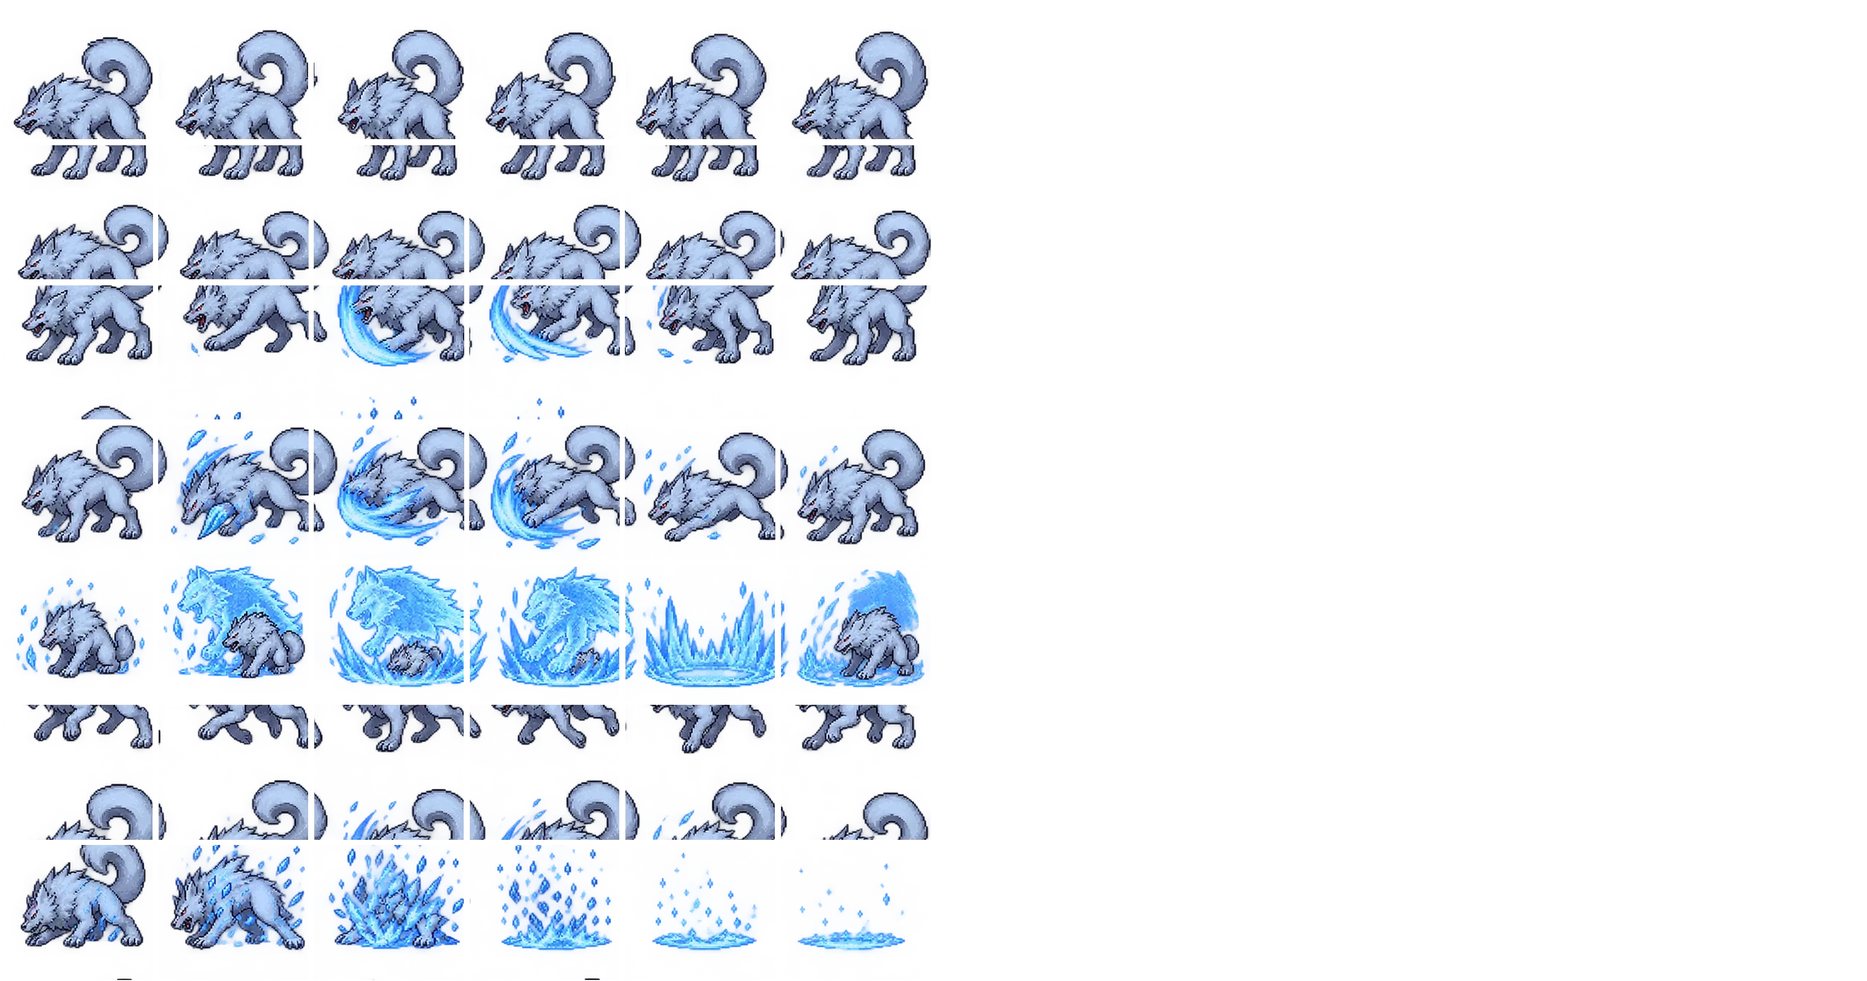
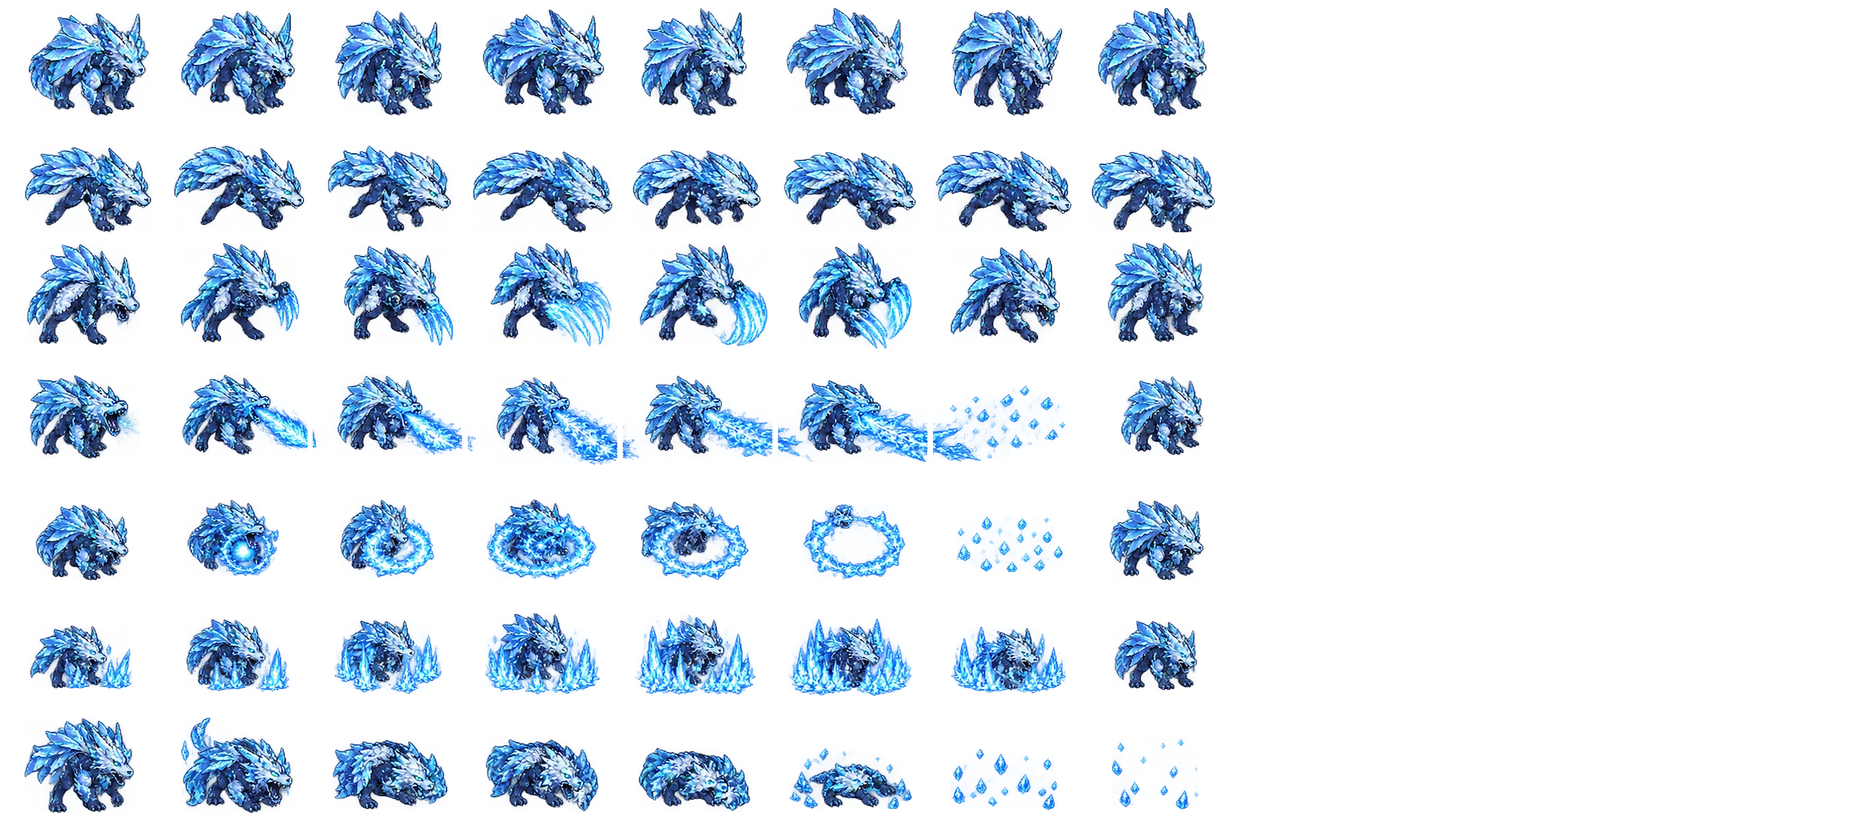
vc142 — 보스 디자인 전면 교체: 유저 제공 아틀라스 5종(12FPS · idle/run/attack/died/스킬3 7행 구조) 적용 — ①심연의 수호자=요툰헤임 수정골렘(304x269·8fr×7행) ②심연의 군주=헬 고해상(303x248·8fr) ③스콜&하티=쌍랑 교체(얼음 늑대+화염 늑대 4fr×7행 — 명칭 '교만의 쌍랑' 복원+대사 수정) ④펜리르=니플헤임 얼음수(303x227·8fr) ⑤요르문간드=잎날개 녹룡 신규 아틀라스(304x201·6행 sp3없음·거터검출 슬라이스) — 게임 12열 그리드+행순서 리맵(die→

diff --git a/src/game/textures.ts b/src/game/textures.ts
@@ -242,29 +242,31 @@ export function buildAllAnims(scene: Phaser.Scene) {
  *  · 프레임은 슬라이서 실측 크기(시트별 상이) — BOSS_ATLAS의 fw/fh와 정확히 일치해야 한다
  *  · 프로그램 키는 기존과 동일(tex-idle·tex-walk·…) — Boss.ts 로직 무수정 호환 */
 export const BOSS_ATLAS: Record<string, { key: string; file: string; fw: number; fh: number }> = {
-  boss:        { key: "atl_boss",        file: "atl_boss.webp",        fw: 268, fh: 234 }, // 심연의 수호자 — 스바르트 흑마수 (v1.4.32 LANCZOS 개선)
+  boss:        { key: "atl_boss",        file: "atl_boss.webp",        fw: 304, fh: 269 }, // 심연의 수호자 — 요툰헤임 수정골렘 (vc142 유저 아틀라스)
   boss2:       { key: "atl_boss2",       file: "atl_boss2.webp",       fw: 330, fh: 212 }, // 눈보라의 거수·파수꾼 — 미드가르드 해적선 (v1.4.32 유령선 고해상)
-  boss3:       { key: "atl_boss3",       file: "atl_boss3.webp",       fw: 286, fh: 234 }, // 심연의 군주 — 헬 악마 (v1.4.32 LANCZOS 개선)
+  boss3:       { key: "atl_boss3",       file: "atl_boss3.webp",       fw: 303, fh: 248 }, // 심연의 군주 — 헬 (vc142 유저 아틀라스 고해상)
   boss_nidhog: { key: "atl_boss_nidhog", file: "atl_boss_nidhog.webp", fw: 226, fh: 232 }, // 니드호그 — 알프헤임 수목룡 (v1.4.32 고해상 11프레임)
   boss_surt:   { key: "atl_boss_surt",   file: "atl_boss_surt.webp",   fw: 330, fh: 224 }, // 수르트 — 무스펠 용암골렘 (v1.4.32 고해상)
-  boss_fenrir: { key: "atl_boss_fenrir", file: "atl_boss_fenrir.webp", fw: 304, fh: 274 }, // 펜리르 — 설원 백량 (v1.4.32 고해상)
-  boss_skoll:  { key: "atl_boss_skoll",  file: "atl_boss_skoll.webp",  fw: 274, fh: 234 }, // 스콜 — 얼음 봉황 (v1.4.32 LANCZOS 개선)
+  boss_fenrir: { key: "atl_boss_fenrir", file: "atl_boss_fenrir.webp", fw: 303, fh: 227 }, // 펜리르 — 니플헤임 얼음수 (vc142 유저 아틀라스)
+  boss_skoll:  { key: "atl_boss_skoll",  file: "atl_boss_skoll.webp",  fw: 303, fh: 257 }, // 스콜 — 얼음 늑대 (vc142 유저 아틀라스 4프레임×7행)
   boss_nagr:   { key: "atl_boss_nagr",   file: "atl_boss_nagr.webp",   fw: 286, fh: 240 }, // 발할라 천사기사 (재림 15) (v1.4.32 LANCZOS 개선)
-  boss_hati:   { key: "atl_boss_hati",   file: "atl_boss_hati.webp",   fw: 280, fh: 258 }, // 하티 — 스콜 트윈(화염) (v1.4.32 LANCZOS 개선)
+  boss_hati:   { key: "atl_boss_hati",   file: "atl_boss_hati.webp",   fw: 304, fh: 257 }, // 하티 — 화염 늑대 (vc142 유저 아틀라스 4프레임×7행)
+  boss_jorm:   { key: "atl_boss_jorm",   file: "atl_boss_jorm.webp",   fw: 304, fh: 201 }, // 요르문간드 — 잎날개 녹룡 (vc142 유저 아틀라스 신설 6행)
 };
 
 /** 아틀라스 행별 유효 프레임 수 (슬라이서 실측 — 뒤쪽 빈 프레임 트리밍).
  *  6행 시트는 sp3가 없다 (Boss.animFor의 beamTele → setBossAnim 폴백으로 idle 동작). */
 export const BOSS_ATLAS_ROWS: Record<string, number[]> = {
-  boss:        [11, 11, 11, 11, 11, 11],           // idle walk atk sp1 sp2 die
+  boss:        [8, 8, 8, 8, 8, 8, 8],              // vc142 수정골렘 8프레임×7행
   boss2:       [6, 6, 6, 6, 6, 6, 6],              // idle walk atk sp1 sp2 sp3 die (v1.4.32 고해상 유령선)
-  boss3:       [11, 11, 11, 11, 11, 11],
+  boss3:       [8, 8, 8, 8, 8, 8, 8],              // vc142 헬 8프레임×7행
   boss_nidhog: [11, 11, 11, 11, 11, 11, 11],       // (v1.4.32 고해상 — 7행 유지)
   boss_surt:   [6, 6, 6, 6, 6, 6, 6],              // (v1.4.32 고해상)
-  boss_fenrir: [6, 6, 6, 6, 6, 6, 6],              // (v1.4.32 고해상)
-  boss_hati:   [11, 11, 11, 11, 11, 11, 11],
-  boss_skoll:  [11, 11, 11, 11, 11, 11, 11],
+  boss_fenrir: [8, 8, 8, 8, 8, 8, 8],              // vc142 얼음수 8프레임×7행
+  boss_hati:   [4, 4, 4, 4, 4, 4, 4],              // vc142 화염늑대 4프레임×7행
+  boss_skoll:  [4, 4, 4, 4, 4, 4, 4],              // vc142 얼음늑대 4프레임×7행
   boss_nagr:   [10, 10, 11, 10, 11, 11],
+  boss_jorm:   [3, 6, 6, 6, 6, 6],                 // vc142 녹룡 6행 (sp3 없음 — die 폴백 idle)
 };
 
 /** 보스 초기 텍스처/프레임 — 아틀라스 보스는 시트 frame 0, 구형은 개별 idle0 이미지 */

diff --git a/public/apk-guide.html b/public/apk-guide.html
@@ -47,7 +47,7 @@
 <body>
 <div class="card">
   <h1>SERTZ v1.0.5-beta APK 다운로드 안내</h1>
-  <div class="sub">versionCode 141 · 기존 세이브 그대로 유지 · 덮어설치 가능 · 결제·광고 실연동</div>
+  <div class="sub">versionCode 142 · 기존 세이브 그대로 유지 · 덮어설치 가능 · 결제·광고 실연동</div>
 
   <div class="web-close">
     🌐 <b>웹에서도 플레이 가능</b> — PC·휴대폰 브라우저에서 <code>sertz.vercel.app</code> 접속 시 별도 설치 없이 바로 플레이됩니다 (구글 로그인·멀티플레이 지원).<br>
@@ -55,9 +55,10 @@
   </div>
 
   <div class="notice">
-<b>이번 버전(v1.0.5-beta · vc141) — "원격 스킬 실제 연출 재생"</b><br>
-✨ 상대 화면에도 내 스킬이 진짜처럼 — 기존엔 내가 쓴 스킬이 상대에게 클래스색 링+화살 몇 발로 퉁쳐졌다면, 이제 회전베기·부채꼴 화살·매직 볼트·돌진 궤적·저격선·낙뢰·토네이도·5차 궁극기까지 전 직업 48종 실제 연출로 재생<br>
-🛡 보스 화질 유지 — 장기 플레이 중 텍스처 자동 수복 시에도 보스 LINEAR 필터가 유지되어 화질이 다시 뭉개지지 않음<br>
+<b>이번 버전(v1.0.5-beta · vc142) — "보스 디자인 전면 교체"</b><br>
+🐉 유저 제공 아틀라스 5종으로 보스 6종 디자인 교체 — 심연의 수호자=요툰헤임 수정골렘 · 심연의 군주=헬 고해상판 · 스콜&하티=쌍랑(얼음 늑대+화염 늑대) · 펜리르=니플헤임 얼음수 · 요르문간드=잎날개 녹룡(신규 아틀라스)<br>
+🎞 12FPS 풀애니 + 전용 초상화 6종 재생성 — idle/이동/공격/사망/스킬 3종 전 행 신규 연출<br>
+✨ (vc141) 상대 화면에도 내 스킬 실제 연출 재생 · 보스 LINEAR 필터 유지<br>
 <b>이전 버전(vc140) — "멀티 서로 안보임 + 보스 화질 2차 복구"</b><br>👥 폴백 브로커(이클립스) 사망 → HiveMQ 교체 + 브로커 자동 순환 (교실 모드 동일 적용) · 보스 9종 LINEAR 필터 · 원격 스킬 좌표 폴백<br><b>이전 버전(vc139·138) — "보스 화질 전면 복구"</b><br>
 ☁ 세이브 복원 수정 — 멀티캐릭터 도입 이후 "세이브 복원" 버튼이 실제로 반영되지 않던 근본 버그 수정 (같은 이름 캐릭터 교체 · 새 기기면 새 캐릭터로 등록)<br>
 🔑 구글 로그인 수정 — 서버가 구글 인증서를 조회하지 못해 웹 구글 로그인이 실패하던 문제 수정 (인증서 조회 경로 정정 + 예비 조회 경로 이중화)<br>
@@ -160,7 +161,7 @@
 
   <div class="step">
     <h2><span class="badge">방법 1 (권장)</span>GitHub 릴리스 — 즉시 다운로드</h2>
-    <a href="https://github.com/apple01234/CERTZ/releases/download/v1.0.5-beta/SERTZ-vc141.apk"
+    <a href="https://github.com/apple01234/CERTZ/releases/download/v1.0.5-beta/SERTZ-vc142.apk"
        style="display:block; text-align:center; margin:10px 0; padding:14px; border-radius:12px; background:linear-gradient(180deg,#facc15,#d97706); color:#1e293b; font-weight:900; font-size:16px; text-decoration:none; box-shadow:0 6px 20px rgba(0,0,0,.4);">
       ⬇ SERTZ v1.0.5-beta APK 바로 다운로드 (~145MB · 즉시 시작)
     </a>
@@ -174,7 +175,7 @@
   <div class="step">
     <h2><span class="badge" style="background:#475569">방법 2</span>릴리스 페이지에서 직접</h2>
     <ul>
-      <li><a href="https://github.com/apple01234/CERTZ/releases/tag/v1.0.5-beta" style="color:#7dc4ff"><code>SERTZ v1.0.5-beta 릴리스 페이지</code></a>에서 <code>SERTZ-vc141.apk</code>를 눌러 다운로드</li>
+      <li><a href="https://github.com/apple01234/CERTZ/releases/tag/v1.0.5-beta" style="color:#7dc4ff"><code>SERTZ v1.0.5-beta 릴리스 페이지</code></a>에서 <code>SERTZ-vc142.apk</code>를 눌러 다운로드</li>
       <li>구버전(v1.0.4-beta 등)도 같은 릴리스 목록에서 내려받을 수 있습니다</li>
     </ul>
   </div>

diff --git a/server.js b/server.js
@@ -34,7 +34,7 @@ app.prepare().then(() => {
   /* vc138 — GitHub API 자산 DELETE 일시 장애로 동일 이름 교체가 막힌 기간의 안전 경로:
    *  vc138 자산을 별도 이름으로 업로드하고 이쪽을 가리킴. 루프가 동일 이름 교체에 성공하면
    *  양쪽 URL 모두 vc138이 됨 (서버 307 리다이렉트이므로 클라 영향 없음). */
-  "https://github.com/apple01234/CERTZ/releases/download/v1.0.5-beta/SERTZ-vc141.apk";
+  "https://github.com/apple01234/CERTZ/releases/download/v1.0.5-beta/SERTZ-vc142.apk";
   const { createReadStream, statSync } = require("node:fs");
   const path = require("node:path");
   const DOWNLOAD_FILES = {
@@ -68,9 +68,9 @@ app.prepare().then(() => {
    *  구버전 APK 사용자에게 증상 수정(화살 방향 등)이 담긴 재설치를 안내한다.
    *  유저가 구버전을 계속 쓰면 최신 수정을 못 받아 같은 증상이 재보고되는 문제를 원천 차단. */
   const LATEST_VERSION = "1.0.5-beta";
-  const LATEST_CODE = 141;
+  const LATEST_CODE = 142;
   const VERSION_NOTE =
-  "v1.0.5-beta (vc141) — 원격 스킬 실제 연출 재생: 상대가 보는 내 스킬이 범용 링이 아니라 클래스별 실제 스킬 이펙트(회전베기·부채꼴 화살·볼트·돌진 궤적·저격선·낙뢰·토네이도·궁극기 등 48종 전원)로 재생 + 보스 아틀라스 수복 시 LINEAR 필터 유지(화질 재저하 방지)";
+  "v1.0.5-beta (vc142) — 보스 디자인 전면 교체: 유저 제공 아틀라스 5종 적용 — 심연의 수호자=요툰헤임 수정골렘·심연의 군주=헬 고해상·스콜&하티=쌍랑(얼음+화염 늑대)·펜리르=니플헤임 얼음수·요르문간드=잎날개 녹룡(신규 아틀라스) — 12FPS 풀애니+초상화 6종 재생성";
   if (url === "/api/version") {
     res.writeHead(200, { "Content-Type": "application/json; charset=utf-8", "Cache-Control": "no-store" });
     res.end(JSON.stringify({

diff --git a/src/game/stages.ts b/src/game/stages.ts
@@ -481,13 +481,13 @@ export const BOSS_DEFS: Record<BossKey, BossDef> = {
     },
   },
   skoll: {
-    key: "skoll", name: "교만의 얼음 봉황 스콜&하티", /* v5.0 보스 리메이크 — 설계도 7/9 니플헤임 얼음 봉황 반영(구: 쌍랑) */
+    key: "skoll", name: "교만의 쌍랑 스콜&하티", /* vc142 보스 디자인 교체 — 유저 제공 쌍랑 아틀라스(얼음 늑대 스콜+화염 늑대 하티) 반영 (구 표기: 교만의 얼음 봉황) */
     hp: 8600, atk: 39, speed: 100, exp: 720, gold: 420,
     tex: "boss_skoll", orbTint: 0xffd97a, introDialogue: "bossIntroSkoll",
     /* v1.4.12 (#20 보스 정체성) — 시그니처 blink · 성향 0.9 */
     sig: "blink",
     aggr: 0.9,
-    /* 태양을 쫓던 쌍두 봉황 — 3연속 교차 돌진(최종 페이즈 3회) + 스윕 빔 */
+    /* 태양과 달을 쫓던 쌍랑 — 3연속 교차 돌진(최종 페이즈 3회) + 스윕 빔 */
     chargeChain: 2,
     patterns: {
       p1: ["volley", "charge", "slam"],

diff --git a/src/app/api/version/route.ts b/src/app/api/version/route.ts
@@ -14,7 +14,7 @@ const VERSION_NOTE =
   "v1.0.5-beta (vc141) — 원격 스킬 실제 연출 재생: 상대가 보는 내 스킬이 범용 링이 아니라 클래스별 실제 스킬 이펙트(회전베기·부채꼴 화살·볼트·돌진 궤적·저격선·낙뢰·토네이도·궁극기 등 48종 전원)로 재생 + 보스 아틀라스 수복 시 LINEAR 필터 유지(화질 재저하 방지)";
 const APK_MIRROR =
   /* vc138 — API DELETE 장애 기간 안전 경로 (server.js 주석 참조) */
-  "https://github.com/apple01234/CERTZ/releases/download/v1.0.5-beta/SERTZ-vc141.apk";
+  "https://github.com/apple01234/CERTZ/releases/download/v1.0.5-beta/SERTZ-vc142.apk";
 
 export async function GET() {
   return NextResponse.json({

diff --git a/src/game/entities/Boss.ts b/src/game/entities/Boss.ts
@@ -132,7 +132,7 @@ export class Boss extends Phaser.Physics.Arcade.Sprite {
     this.play(`${def.tex}-idle`);
 
     /* v1.0.12 — 하티 스폰: 스콜 옆에 나란히 달린다.
-     *  v1.4.31 (#4) — 아틀라스 시대: 본체=얼음 봉황(스콜), 트윈=화염 늑대(하티 전용 아트·무틴트).
+     *  vc142 — 아틀라스 시대: 본체=얼음 늑대(스콜), 트윈=화염 늑대(하티 전용 아트·무틴트).
      *  구형 아트는 기존대로 동일 텍스처+은빛 틴트. 히트박스/판정은 보스 본체 그대로(밸런스 불변). */
     if (def.key === "skoll") {
       if (BOSS_ATLAS[def.tex]) {

diff --git a/next.config.ts b/next.config.ts
@@ -58,7 +58,7 @@ const nextConfig: NextConfig = isStaticExport
          *  리다이렉트되던 잠복 버그 수정 (server.js 정규식은 beta 미포함이라 이쪽이 개입).
          *  APK_MIRROR(server.js·route.ts)와 수동 싱크 유지. */
         const APK_DL =
-          "https://github.com/apple01234/CERTZ/releases/download/v1.0.5-beta/SERTZ-vc141.apk";
+          "https://github.com/apple01234/CERTZ/releases/download/v1.0.5-beta/SERTZ-vc142.apk";
         return [
           {
             /* v4.1.0 — 모든 버전의 /SERTZ-vX.apk 경로를 한 규칙으로 처리

diff --git a/src/game/data.ts b/src/game/data.ts
@@ -1796,10 +1796,10 @@ export const DIALOGUES: Record<string, DialogueDef> = {
     ],
   },
   bossIntroSkoll: {
-    speaker: "교만의 얼음 봉황 스콜&하티",
+    speaker: "교만의 쌍랑 스콜&하티",
     lines: [
       "얼어붙은 하늘 아래 — 해와 달도 궁어졌다!",
-      "얼음 날개로 하늘을 삼킨 우리에게 — 작은 인간 따위가 굴복하랴!",
+      "해와 달을 쫓아 하늘을 삼킨 우리에게 — 작은 인간 따위가 굴복하랴!",
       "교만은 꺾이지 않아. 부서져라!",
     ],
   },

diff --git a/scripts/vc142_boss_slicer.py b/scripts/vc142_boss_slicer.py
@@ -1,0 +1,179 @@
+#!/usr/bin/env python3
+# vc142 보스 디자인 교체 슬라이서 (최종)
+# 유저 아틀라스(12FPS · idle/run/attack/died/sp1/sp2/sp3) → 게임 아틀라스
+# (12열 고정 · idle/walk/atk/sp1/sp2/sp3/die) — 셀 기준 배치 + jorm 거터 검출
+from PIL import Image, ImageFilter
+import numpy as np
+import os, json
+
+UP = '/home/z/my-project/upload'
+ASSETS = '/home/z/my-project/public/assets'
+PREVIEW = '/home/z/my-project/scripts/atlas_preview'
+os.makedirs(PREVIEW, exist_ok=True)
+
+SHEETS = [
+    dict(src='요툰헤임.png',  tex='boss',        split=None, mirror_frames=False, rows=7, note='수정골렘→심연의 수호자'),
+    dict(src='헬.png',        tex='boss3',       split=None, mirror_frames=False, rows=7, note='헬→심연의 군주'),
+    dict(src='스콜&하티.png', tex='boss_skoll',  split='L',  mirror_frames=False, rows=7, note='얼음늑대→스콜'),
+    dict(src='스콜&하티.png', tex='boss_hati',   split='R',  mirror_frames=False, rows=7, note='화염늑대→하티'),
+    dict(src='file_00000000c8fc8206a70cd9c7ea2a8359.png', tex='boss_fenrir', split=None, mirror_frames=False, rows=7, note='니플헤임 얼음수→펜리르'),
+    dict(src='file_000000004a5482069531efe87ab73ca2.png', tex='boss_jorm',   split=None, mirror_frames=False, rows=6, gutter=True, note='녹룡→요르문간드(6행 — sp3 없음)'),
+]
+COLS = 8
+TARGET_W = 292
+PAD_X, PAD_Y = 6, 8
+MIN_PIX = 60
+
+def detect_row_bands(mask, exp):
+    proj = mask.sum(axis=1)
+    H = len(proj)
+    bands, s = [], None
+    for y in range(H):
+        if proj[y] > 6 and s is None: s = y
+        elif proj[y] <= 6 and s is not None:
+            if y - s >= 40: bands.append([s, y])
+            s = None
+    if s is not None and H - s >= 40: bands.append([s, H])
+    while len(bands) < exp:
+        heights = [b - a for a, b in bands]
+        idx = int(np.argmax(heights))
+        a, b = bands[idx]
+        if (b - a) < 150: break
+        seg = proj[a:b]
+        lo, hi = int((b - a) * 0.30), int((b - a) * 0.70)
+        inner = seg[lo:hi]
+        if len(inner) == 0: break
+        cut = a + lo + int(np.argmin(inner))
+        bands[idx] = [a, cut]
+        bands.insert(idx + 1, [cut, b])
+    return bands
+
+def trim_edge_slivers(sub):
+    h, w = sub.shape
+    for _ in range(6):
+        if w <= 24: break
+        if sub[:, :3].sum() < 12: sub = sub[:, 3:]
+        elif sub[:, -3:].sum() < 12: sub = sub[:, :-3]
+        else: break
+        w = sub.shape[1]
+    for _ in range(4):
+        if sub.shape[0] <= 24: break
+        if sub[:3, :].sum() < 12: sub = sub[3:, :]
+        else: break
+    return sub
+
+def process(cfg):
+    im = Image.open(os.path.join(UP, cfg['src'])).convert('RGBA')
+    W, H = im.size
+    mask = np.array(im.getchannel('A')) > 12
+    bands = detect_row_bands(mask, cfg['rows'])
+    nrows = len(bands)
+
+    if cfg['split'] == 'L':   x0, x1, ncol = 0, W // 2, COLS // 2
+    elif cfg['split'] == 'R': x0, x1, ncol = W // 2, W, COLS // 2
+    else:                     x0, x1, ncol = 0, W, COLS
+    cw = (x1 - x0) / ncol
+
+    rows_frames, row_cells = [], []
+    for (by0, by1) in bands:
+        frames, cells = [], []
+        if cfg.get('gutter'):
+            proj = mask[by0:by1].sum(axis=0)
+            segs, s = [], None
+            for x in range(x0, x1):
+                if proj[x] > 3 and s is None: s = x
+                elif proj[x] <= 3 and s is not None:
+                    if x - s > 30: segs.append((s, x))
+                    s = None
+            if s is not None and x1 - s > 30: segs.append((s, x1))
+            for (sx0, sx1) in segs:
+                sub = mask[by0:by1, sx0:sx1]
+                ys, xs = np.where(sub)
+                if len(xs) < MIN_PIX: continue
+                frames.append((sx0 + int(xs.min()), by0 + int(ys.min()),
+                               sx0 + int(xs.max()) + 1, by0 + int(ys.max()) + 1))
+                cells.append((sx0, sx1))
+        else:
+            for c in range(ncol):
+                cx0, cx1 = int(x0 + c * cw), int(x0 + (c + 1) * cw)
+                sub = mask[by0:by1, cx0:cx1]
+                ys, xs = np.where(sub)
+                if len(xs) < MIN_PIX:
+                    frames.append(None); cells.append(None)
+                    continue
+                frames.append((cx0 + int(xs.min()), by0 + int(ys.min()),
+                               cx0 + int(xs.max()) + 1, by0 + int(ys.max()) + 1))
+                cells.append((cx0, cx1))
+        rows_frames.append(frames); row_cells.append(cells)
+
+    max_content_w = 0
+    max_band_h = max(b - a for a, b in bands)
+    for frames in rows_frames:
+        for f in frames:
+            if f: max_content_w = max(max_content_w, f[2] - f[0])
+    scale = min(1.9, max(1.0, TARGET_W / max_content_w))
+    GW = int((cw if not cfg.get('gutter') else max_content_w) * scale) + PAD_X * 2
+    GH = int(max_band_h * scale) + PAD_Y * 2
+
+    atlas_order = [0, 1, 2, 4, 5, 6, 3] if nrows == 7 else [0, 1, 2, 4, 5, 3]
+    canvas_rows = max(atlas_order) + 1  # 빈행 → 팬텀 프레임 방지
+
+    canvas = Image.new('RGBA', (GW * 12, GH * canvas_rows), (0, 0, 0, 0))
+    counts = []
+    for arow, srow in enumerate(atlas_order):
+        frames, cells = rows_frames[srow], row_cells[srow]
+        by0, by1 = bands[srow]
+        n = 0
+        for i, f in enumerate(frames):
+            if not f or i >= 12: continue
+            fx0, fy0, fx1, fy1 = f
+            cx0, cx1 = cells[i]
+            sub = mask[fy0:fy1, fx0:fx1]
+            sub_t = trim_edge_slivers(sub)
+            dleft = int(np.where(sub_t.sum(axis=0) > 0)[0].min()) if sub_t.size else 0
+            ncrop = im.crop((fx0 + dleft, fy0, fx0 + dleft + sub_t.shape[1], fy0 + sub_t.shape[0]))
+            if cfg['mirror_frames']:
+                ncrop = ncrop.transpose(Image.FLIP_LEFT_RIGHT)
+            nw, nh = max(1, round(ncrop.width * scale)), max(1, round(ncrop.height * scale))
+            ncrop = ncrop.resize((nw, nh), Image.LANCZOS)
+            ncrop = ncrop.filter(ImageFilter.UnsharpMask(radius=1.2, percent=52, threshold=2))
+            fcx = fx0 + dleft + sub_t.shape[1] / 2
+            ccx = (cx0 + cx1) / 2
+            dx = round((fcx - ccx) * scale) * (-1 if cfg['mirror_frames'] else 1)
+            if cfg.get('gutter'):
+                dx = 0
+            off_bottom = round((by1 - fy1) * scale)
+            X = i * GW + GW // 2 + dx - nw // 2
+            Y = arow * GH + GH - off_bottom - nh
+            canvas.alpha_composite(ncrop, (max(0, X), max(0, Y)))
+            n += 1
+        counts.append(n)
+
+    out = os.path.join(ASSETS, f'atl_{cfg["tex"]}.webp')
+    assert canvas.width <= 16383 and canvas.height <= 16383, f'{cfg["tex"]} canvas {canvas.size}'
+    canvas.save(out, 'WEBP', quality=84, method=5)
+    print(f"[{cfg['tex']}] {cfg['note']} — 프레임 {GW}x{GH} (scale {scale:.2f}) counts={counts}")
+
+    pv = canvas.copy(); pv.thumbnail((1500, 1500), Image.LANCZOS)
+    pv.save(f'{PREVIEW}/vc142_{cfg["tex"]}_all.png')
+
+    idle = [f for f in rows_frames[0] if f]
+    if idle:
+        f = max(idle, key=lambda b: (b[2] - b[0]) * (b[3] - b[1]))
+        crop = im.crop(f)
+        if cfg['mirror_frames']:
+            crop = crop.transpose(Image.FLIP_LEFT_RIGHT)
+        h = 220
+        w = max(1, round(crop.width * h / crop.height))
+        crop = crop.resize((w, h), Image.LANCZOS)
+        crop.save(os.path.join(ASSETS, f'bossport_{cfg["tex"]}.webp'), 'WEBP', quality=86, method=5)
+    return dict(tex=cfg['tex'], fw=GW, fh=GH, counts=counts, file=f'atl_{cfg["tex"]}.webp')
+
+results = [process(cfg) for cfg in SHEETS]
+print('\n═══ BOSS_ATLAS ═══')
+for r in results:
+    print(f'  {r["tex"]:12s}{{ key: "atl_{r["tex"]}", file: "atl_{r["tex"]}.webp", fw: {r["fw"]}, fh: {r["fh"]} }},')
+print('═══ BOSS_ATLAS_ROWS ═══')
+for r in results:
+    print(f'  {r["tex"]:12s}{json.dumps(r["counts"])},')
+json.dump(results, open('/home/z/my-project/scripts/vc142_slicer_result.json', 'w'), indent=1)
